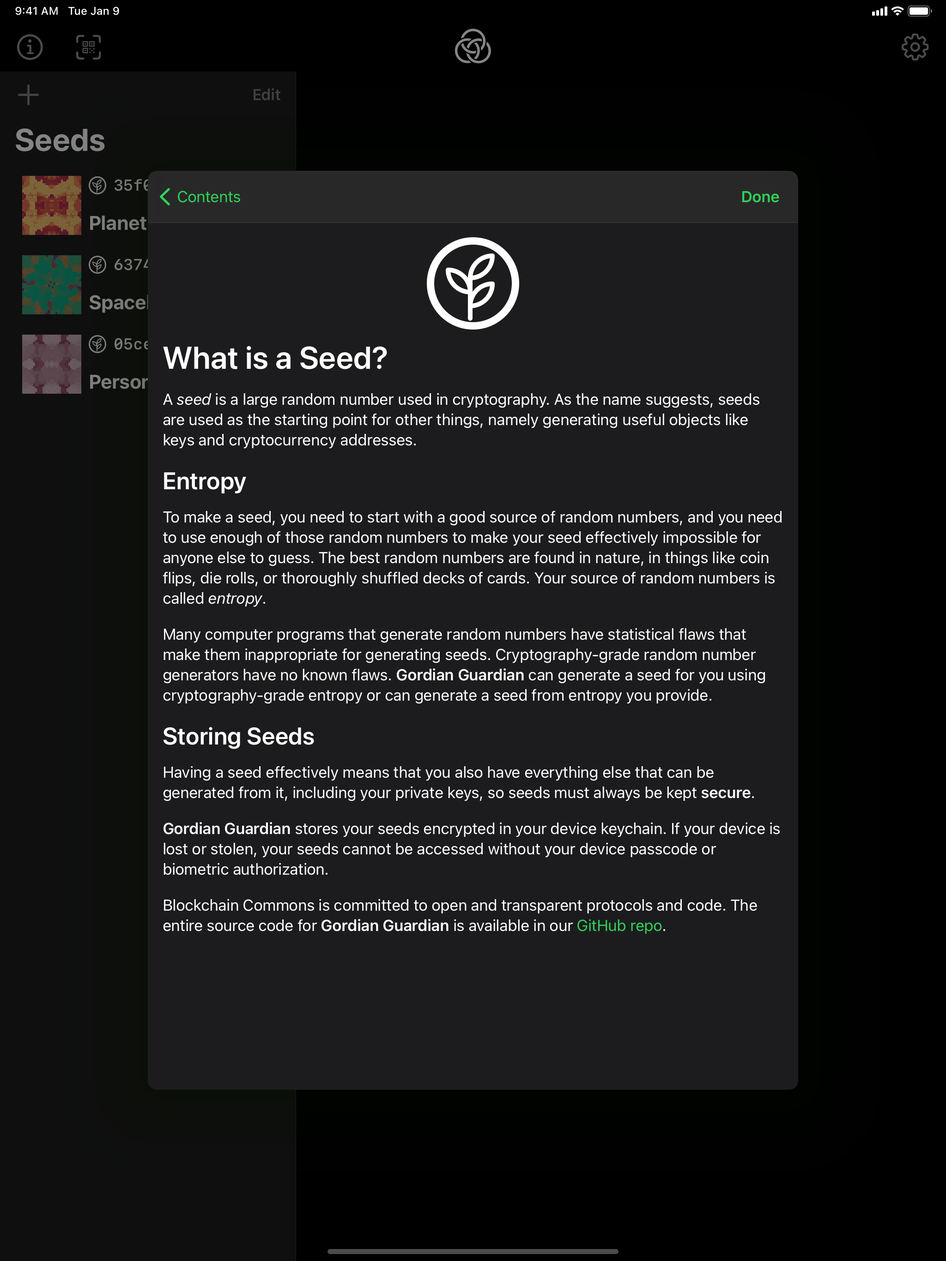
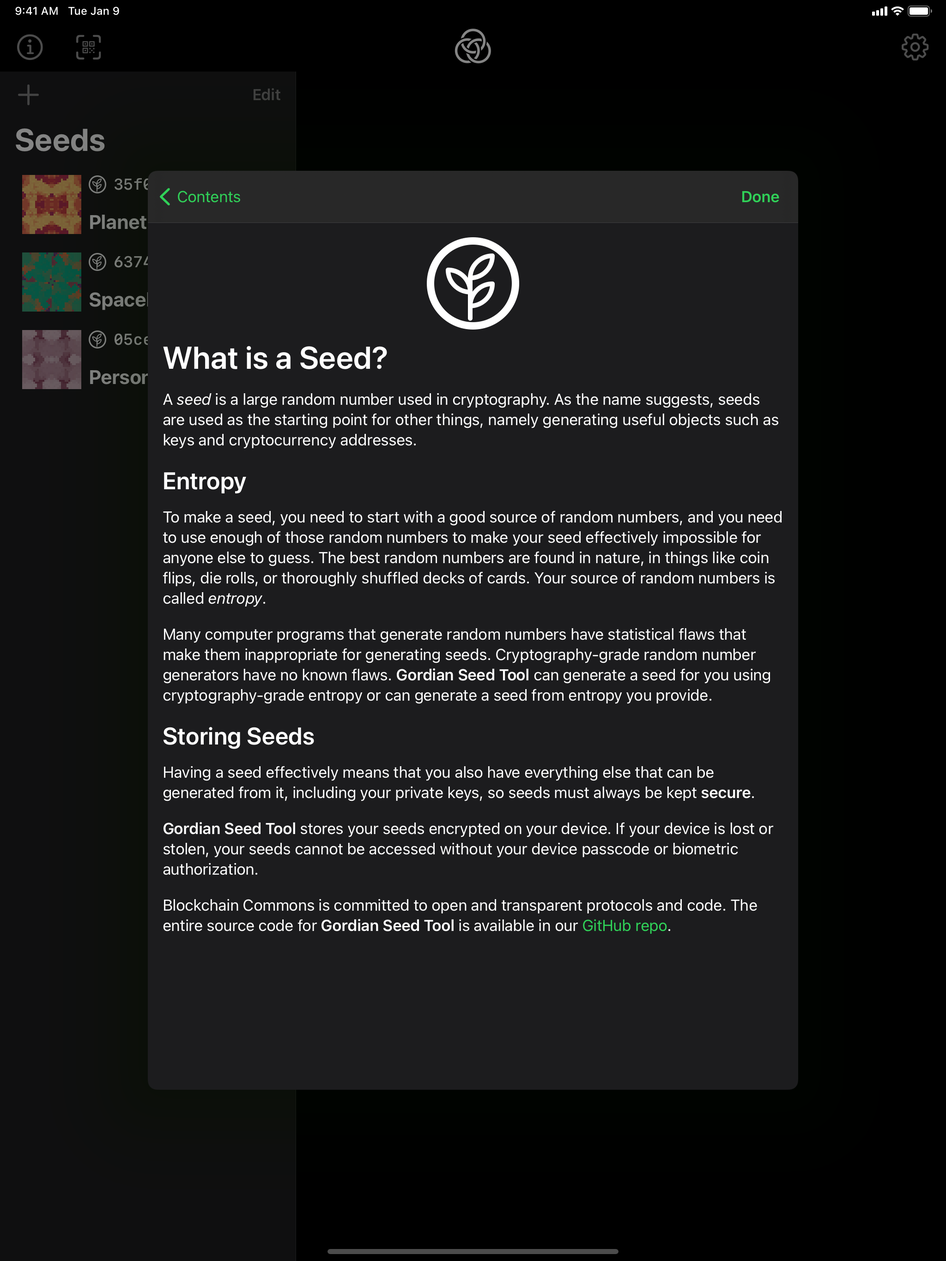
Update screenshots.

diff --git a/fastlane/Preview.html b/fastlane/Preview.html
@@ -92,7 +92,7 @@
 
           .app-changelog-list {
               list-style-type: square;
-              
+
               font-weight: 300;
           }
 
@@ -138,10 +138,10 @@
           }
         </style>
     </head>
-    
+
     <body>
       <div class="app-icons">
-        
+
         
         
       </div>
@@ -155,7 +155,7 @@
 
         
           <div class="app-subtitle">
-            Subtitle:  Crypto Seed Vault
+            Subtitle:  Cryptographic Seed Vault
 
           </div>
         
@@ -182,29 +182,47 @@
             
           
         </div>
-        
+
         
           <div class="app-keyword">
               <div class="cat-headline">Keywords</div>
               <ul class="app-keyword-list">
                 
+                  <li>cryptography</li>
+                
+                  <li>cryptocurrency</li>
+                
+                  <li>bitcoin</li>
+                
+                  <li>private keys</li>
+                
+                  <li>seeds</li>
+                
+                  <li>blockchain</li>
+                
+                  <li>qr</li>
+                
+                  <li>wallet</li>
+                
+                  <li>security</li>
+                
               </ul>
           </div>
         
-        
+
         
           <div class="app-description">
                <div class="cat-headline">Description</div>
                <div class="app-description-text">
-                  “Seeds” are long strings of truly random numbers used in cryptography. As the name suggests, seeds are used as the starting point for other things like generating useful objects like keys and addresses used with cryptocurrencies. To be secure, seeds need to be generated and stored safely. Gordian Seed Tool lets you generate seeds and store them securely on your device. You can even use an entirely offline device (no Internet access) to store your seeds, and exchange just necessary information with online devices running compatible wallet or signing software using QR codes.<br /><br />Gordian Seed Tool lets you derive and share multi-signature signing and verification keys from your seeds, and lets you back up your seeds in sophisticated ways, including printed pages and Sharded Secret Key Reconstruction (SSKR), which lets you split your seed into pieces and send them to trusted parties, who can send them back to you in an emergency, allowing you to recover your seed.<br /><br />Gordian Seed Tool is open source software from Blockchain Commons, a not-for-profit public good organization. Find our repository on GitHub and check out the code for yourself!<br />
+                  Gordian Seed Tool protects your cryptographic seeds while also making them available for easy use. Using Seed Tool, you can generate seeds and store them securely on your device. You can then derive and share multi-signature signing and verification keys from those seeds. Sophisticated backup procedures include printed pages and Sharded Secret Key Reconstruction (SSKR) — which lets you split your seed into pieces and send them to trusted parties, who can send them back to you in an emergency for seed recovery. You can even use an entirely offline device (no internet access) to store your seeds and use QR codes to exchange necessary information with online devices running compatible wallet or signing software.<br /><br />The "seeds" generated and protected by Gordian Seed Tool are long strings of truly random numbers used in cryptography. As the name suggests, seeds are the starting point for other things such as cryptocurrency keys and addresses. To be secure, seeds need to be created and saved safely.<br /><br />NOTE: Gordian Seed Tool is not a cryptocurrency wallet. It does not store or transmit value in any cryptocurrency, but it can be used in conjunction with such tools.<br /><br />Gordian Seed Tool is open-source software from Blockchain Commons, a not-for-profit public-good organization. Find our repository on GitHub and check out the code for yourself!<br />
                </div>
           </div>
         
-        
+
         
           <div class="app-changelog">
               <div class="cat-headline">Changelog</div>
-              • Fixed a bug where the transaction ID in a returned `crypto-response` did not match the transaction ID in the received `crypto-request`.<br />
+              • You can now navigate from various places of the app to specific pages of the built-in user's guide via the ⓘ buttons.<br />• The Settings panel now contains a Show Developer Functions switch that shows the "Show Request/Response for this Seed/Key" options at appropriate places in the app.<br />• All functions that copied data to the clipboard, including long presses on QR codes, life hashes, and other static fields now invoke the system share sheet instead.<br />• In the Seed Detail view, the "Data" section has been renamed "Encrypted Data", and the "Decrypt" button is now called "Authenticate". It now reveals several buttons: Backup, Share, and Derive Key, which are menus that lead to futher functionality. There are also links to the documentation.<br />• The SSKR export view now includes a "preset selector" that lets users choose among comon sharding configurations. Users can still choose any configuration they like and this will be reflected in the preset selector as "custom".<br />• In the Settings panel, the default network is now "mainnet". This will only apply to users who have not manually changed this setting.<br />• In the Derive Key view, both the private and public keys are now simulatenously derived, and appear in separate sections at the bottom of the view.<br />• Other minor bug fixes and improvements.<br />
           </div>
         
 
@@ -214,7 +232,7 @@
               Securely generates, stores, imports, and exports cryptographic seeds (long random numbers) used in a variety of cryptographic and cryptocurrency applications.<br />
           </div>
         
-        
+
         <div class="app-screenshots">
           <div class="cat-headline">Screenshots</div>
 
@@ -229,19 +247,19 @@
               <div class="app-screenshot-row">
 
               
-                <a href="./fastlane/screenshots/en-US/iPhone%208%20Plus-0seedList.png" target="_blank"><img class="app-screenshot" src="screenshots/en-US/iPhone%208%20Plus-0seedList.png" title="Screenshot #0 for en-US"></a>
+                <a href="screenshots/en-US/iPhone%208%20Plus-0seedList.png" target="_blank"><img class="app-screenshot" src="screenshots/en-US/iPhone%208%20Plus-0seedList.png" title="Screenshot #0 for en-US"></a>
               
-                <a href="./fastlane/screenshots/en-US/iPhone%208%20Plus-1docs.png" target="_blank"><img class="app-screenshot" src="screenshots/en-US/iPhone%208%20Plus-1docs.png" title="Screenshot #1 for en-US"></a>
+                <a href="screenshots/en-US/iPhone%208%20Plus-1docs.png" target="_blank"><img class="app-screenshot" src="screenshots/en-US/iPhone%208%20Plus-1docs.png" title="Screenshot #1 for en-US"></a>
               
-                <a href="./fastlane/screenshots/en-US/iPhone%208%20Plus-2addSeed.png" target="_blank"><img class="app-screenshot" src="screenshots/en-US/iPhone%208%20Plus-2addSeed.png" title="Screenshot #2 for en-US"></a>
+                <a href="screenshots/en-US/iPhone%208%20Plus-2addSeed.png" target="_blank"><img class="app-screenshot" src="screenshots/en-US/iPhone%208%20Plus-2addSeed.png" title="Screenshot #2 for en-US"></a>
               
-                <a href="./fastlane/screenshots/en-US/iPhone%208%20Plus-3playingCards.png" target="_blank"><img class="app-screenshot" src="screenshots/en-US/iPhone%208%20Plus-3playingCards.png" title="Screenshot #3 for en-US"></a>
+                <a href="screenshots/en-US/iPhone%208%20Plus-3playingCards.png" target="_blank"><img class="app-screenshot" src="screenshots/en-US/iPhone%208%20Plus-3playingCards.png" title="Screenshot #3 for en-US"></a>
               
-                <a href="./fastlane/screenshots/en-US/iPhone%208%20Plus-4seedDetail.png" target="_blank"><img class="app-screenshot" src="screenshots/en-US/iPhone%208%20Plus-4seedDetail.png" title="Screenshot #4 for en-US"></a>
+                <a href="screenshots/en-US/iPhone%208%20Plus-4seedDetail.png" target="_blank"><img class="app-screenshot" src="screenshots/en-US/iPhone%208%20Plus-4seedDetail.png" title="Screenshot #4 for en-US"></a>
               
-                <a href="./fastlane/screenshots/en-US/iPhone%208%20Plus-5deriveKey.png" target="_blank"><img class="app-screenshot" src="screenshots/en-US/iPhone%208%20Plus-5deriveKey.png" title="Screenshot #5 for en-US"></a>
+                <a href="screenshots/en-US/iPhone%208%20Plus-5deriveKey.png" target="_blank"><img class="app-screenshot" src="screenshots/en-US/iPhone%208%20Plus-5deriveKey.png" title="Screenshot #5 for en-US"></a>
               
-                <a href="./fastlane/screenshots/en-US/iPhone%208%20Plus-6exportKey.png" target="_blank"><img class="app-screenshot" src="screenshots/en-US/iPhone%208%20Plus-6exportKey.png" title="Screenshot #6 for en-US"></a>
+                <a href="screenshots/en-US/iPhone%208%20Plus-6exportKey.png" target="_blank"><img class="app-screenshot" src="screenshots/en-US/iPhone%208%20Plus-6exportKey.png" title="Screenshot #6 for en-US"></a>
               
               </div>
             
@@ -251,19 +269,19 @@
               <div class="app-screenshot-row">
 
               
-                <a href="./fastlane/screenshots/en-US/iPhone%2011%20Pro%20Max-0seedList.png" target="_blank"><img class="app-screenshot" src="screenshots/en-US/iPhone%2011%20Pro%20Max-0seedList.png" title="Screenshot #0 for en-US"></a>
+                <a href="screenshots/en-US/iPhone%2011%20Pro%20Max-0seedList.png" target="_blank"><img class="app-screenshot" src="screenshots/en-US/iPhone%2011%20Pro%20Max-0seedList.png" title="Screenshot #0 for en-US"></a>
               
-                <a href="./fastlane/screenshots/en-US/iPhone%2011%20Pro%20Max-1docs.png" target="_blank"><img class="app-screenshot" src="screenshots/en-US/iPhone%2011%20Pro%20Max-1docs.png" title="Screenshot #1 for en-US"></a>
+                <a href="screenshots/en-US/iPhone%2011%20Pro%20Max-1docs.png" target="_blank"><img class="app-screenshot" src="screenshots/en-US/iPhone%2011%20Pro%20Max-1docs.png" title="Screenshot #1 for en-US"></a>
               
-                <a href="./fastlane/screenshots/en-US/iPhone%2011%20Pro%20Max-2addSeed.png" target="_blank"><img class="app-screenshot" src="screenshots/en-US/iPhone%2011%20Pro%20Max-2addSeed.png" title="Screenshot #2 for en-US"></a>
+                <a href="screenshots/en-US/iPhone%2011%20Pro%20Max-2addSeed.png" target="_blank"><img class="app-screenshot" src="screenshots/en-US/iPhone%2011%20Pro%20Max-2addSeed.png" title="Screenshot #2 for en-US"></a>
               
-                <a href="./fastlane/screenshots/en-US/iPhone%2011%20Pro%20Max-3playingCards.png" target="_blank"><img class="app-screenshot" src="screenshots/en-US/iPhone%2011%20Pro%20Max-3playingCards.png" title="Screenshot #3 for en-US"></a>
+                <a href="screenshots/en-US/iPhone%2011%20Pro%20Max-3playingCards.png" target="_blank"><img class="app-screenshot" src="screenshots/en-US/iPhone%2011%20Pro%20Max-3playingCards.png" title="Screenshot #3 for en-US"></a>
               
-                <a href="./fastlane/screenshots/en-US/iPhone%2011%20Pro%20Max-4seedDetail.png" target="_blank"><img class="app-screenshot" src="screenshots/en-US/iPhone%2011%20Pro%20Max-4seedDetail.png" title="Screenshot #4 for en-US"></a>
+                <a href="screenshots/en-US/iPhone%2011%20Pro%20Max-4seedDetail.png" target="_blank"><img class="app-screenshot" src="screenshots/en-US/iPhone%2011%20Pro%20Max-4seedDetail.png" title="Screenshot #4 for en-US"></a>
               
-                <a href="./fastlane/screenshots/en-US/iPhone%2011%20Pro%20Max-5deriveKey.png" target="_blank"><img class="app-screenshot" src="screenshots/en-US/iPhone%2011%20Pro%20Max-5deriveKey.png" title="Screenshot #5 for en-US"></a>
+                <a href="screenshots/en-US/iPhone%2011%20Pro%20Max-5deriveKey.png" target="_blank"><img class="app-screenshot" src="screenshots/en-US/iPhone%2011%20Pro%20Max-5deriveKey.png" title="Screenshot #5 for en-US"></a>
               
-                <a href="./fastlane/screenshots/en-US/iPhone%2011%20Pro%20Max-6exportKey.png" target="_blank"><img class="app-screenshot" src="screenshots/en-US/iPhone%2011%20Pro%20Max-6exportKey.png" title="Screenshot #6 for en-US"></a>
+                <a href="screenshots/en-US/iPhone%2011%20Pro%20Max-6exportKey.png" target="_blank"><img class="app-screenshot" src="screenshots/en-US/iPhone%2011%20Pro%20Max-6exportKey.png" title="Screenshot #6 for en-US"></a>
               
               </div>
             
@@ -273,19 +291,19 @@
               <div class="app-screenshot-row">
 
               
-                <a href="./fastlane/screenshots/en-US/iPad%20Pro%20(12.9-inch)%20(2nd%20generation)-0seedList.png" target="_blank"><img class="app-screenshot" src="screenshots/en-US/iPad%20Pro%20(12.9-inch)%20(2nd%20generation)-0seedList.png" title="Screenshot #0 for en-US"></a>
+                <a href="screenshots/en-US/iPad%20Pro%20(12.9-inch)%20(2nd%20generation)-0seedList.png" target="_blank"><img class="app-screenshot" src="screenshots/en-US/iPad%20Pro%20(12.9-inch)%20(2nd%20generation)-0seedList.png" title="Screenshot #0 for en-US"></a>
               
-                <a href="./fastlane/screenshots/en-US/iPad%20Pro%20(12.9-inch)%20(2nd%20generation)-1docs.png" target="_blank"><img class="app-screenshot" src="screenshots/en-US/iPad%20Pro%20(12.9-inch)%20(2nd%20generation)-1docs.png" title="Screenshot #1 for en-US"></a>
+                <a href="screenshots/en-US/iPad%20Pro%20(12.9-inch)%20(2nd%20generation)-1docs.png" target="_blank"><img class="app-screenshot" src="screenshots/en-US/iPad%20Pro%20(12.9-inch)%20(2nd%20generation)-1docs.png" title="Screenshot #1 for en-US"></a>
               
-                <a href="./fastlane/screenshots/en-US/iPad%20Pro%20(12.9-inch)%20(2nd%20generation)-2addSeed.png" target="_blank"><img class="app-screenshot" src="screenshots/en-US/iPad%20Pro%20(12.9-inch)%20(2nd%20generation)-2addSeed.png" title="Screenshot #2 for en-US"></a>
+                <a href="screenshots/en-US/iPad%20Pro%20(12.9-inch)%20(2nd%20generation)-2addSeed.png" target="_blank"><img class="app-screenshot" src="screenshots/en-US/iPad%20Pro%20(12.9-inch)%20(2nd%20generation)-2addSeed.png" title="Screenshot #2 for en-US"></a>
               
-                <a href="./fastlane/screenshots/en-US/iPad%20Pro%20(12.9-inch)%20(2nd%20generation)-3playingCards.png" target="_blank"><img class="app-screenshot" src="screenshots/en-US/iPad%20Pro%20(12.9-inch)%20(2nd%20generation)-3playingCards.png" title="Screenshot #3 for en-US"></a>
+                <a href="screenshots/en-US/iPad%20Pro%20(12.9-inch)%20(2nd%20generation)-3playingCards.png" target="_blank"><img class="app-screenshot" src="screenshots/en-US/iPad%20Pro%20(12.9-inch)%20(2nd%20generation)-3playingCards.png" title="Screenshot #3 for en-US"></a>
               
-                <a href="./fastlane/screenshots/en-US/iPad%20Pro%20(12.9-inch)%20(2nd%20generation)-4seedDetail.png" target="_blank"><img class="app-screenshot" src="screenshots/en-US/iPad%20Pro%20(12.9-inch)%20(2nd%20generation)-4seedDetail.png" title="Screenshot #4 for en-US"></a>
+                <a href="screenshots/en-US/iPad%20Pro%20(12.9-inch)%20(2nd%20generation)-4seedDetail.png" target="_blank"><img class="app-screenshot" src="screenshots/en-US/iPad%20Pro%20(12.9-inch)%20(2nd%20generation)-4seedDetail.png" title="Screenshot #4 for en-US"></a>
               
-                <a href="./fastlane/screenshots/en-US/iPad%20Pro%20(12.9-inch)%20(2nd%20generation)-5deriveKey.png" target="_blank"><img class="app-screenshot" src="screenshots/en-US/iPad%20Pro%20(12.9-inch)%20(2nd%20generation)-5deriveKey.png" title="Screenshot #5 for en-US"></a>
+                <a href="screenshots/en-US/iPad%20Pro%20(12.9-inch)%20(2nd%20generation)-5deriveKey.png" target="_blank"><img class="app-screenshot" src="screenshots/en-US/iPad%20Pro%20(12.9-inch)%20(2nd%20generation)-5deriveKey.png" title="Screenshot #5 for en-US"></a>
               
-                <a href="./fastlane/screenshots/en-US/iPad%20Pro%20(12.9-inch)%20(2nd%20generation)-6exportKey.png" target="_blank"><img class="app-screenshot" src="screenshots/en-US/iPad%20Pro%20(12.9-inch)%20(2nd%20generation)-6exportKey.png" title="Screenshot #6 for en-US"></a>
+                <a href="screenshots/en-US/iPad%20Pro%20(12.9-inch)%20(2nd%20generation)-6exportKey.png" target="_blank"><img class="app-screenshot" src="screenshots/en-US/iPad%20Pro%20(12.9-inch)%20(2nd%20generation)-6exportKey.png" title="Screenshot #6 for en-US"></a>
               
               </div>
             
@@ -295,25 +313,25 @@
               <div class="app-screenshot-row">
 
               
-                <a href="./fastlane/screenshots/en-US/iPad%20Pro%20(12.9-inch)%20(4th%20generation)-0seedList.png" target="_blank"><img class="app-screenshot" src="screenshots/en-US/iPad%20Pro%20(12.9-inch)%20(4th%20generation)-0seedList.png" title="Screenshot #0 for en-US"></a>
+                <a href="screenshots/en-US/iPad%20Pro%20(12.9-inch)%20(4th%20generation)-0seedList.png" target="_blank"><img class="app-screenshot" src="screenshots/en-US/iPad%20Pro%20(12.9-inch)%20(4th%20generation)-0seedList.png" title="Screenshot #0 for en-US"></a>
               
-                <a href="./fastlane/screenshots/en-US/iPad%20Pro%20(12.9-inch)%20(4th%20generation)-1docs.png" target="_blank"><img class="app-screenshot" src="screenshots/en-US/iPad%20Pro%20(12.9-inch)%20(4th%20generation)-1docs.png" title="Screenshot #1 for en-US"></a>
+                <a href="screenshots/en-US/iPad%20Pro%20(12.9-inch)%20(4th%20generation)-1docs.png" target="_blank"><img class="app-screenshot" src="screenshots/en-US/iPad%20Pro%20(12.9-inch)%20(4th%20generation)-1docs.png" title="Screenshot #1 for en-US"></a>
               
-                <a href="./fastlane/screenshots/en-US/iPad%20Pro%20(12.9-inch)%20(4th%20generation)-2addSeed.png" target="_blank"><img class="app-screenshot" src="screenshots/en-US/iPad%20Pro%20(12.9-inch)%20(4th%20generation)-2addSeed.png" title="Screenshot #2 for en-US"></a>
+                <a href="screenshots/en-US/iPad%20Pro%20(12.9-inch)%20(4th%20generation)-2addSeed.png" target="_blank"><img class="app-screenshot" src="screenshots/en-US/iPad%20Pro%20(12.9-inch)%20(4th%20generation)-2addSeed.png" title="Screenshot #2 for en-US"></a>
               
-                <a href="./fastlane/screenshots/en-US/iPad%20Pro%20(12.9-inch)%20(4th%20generation)-3playingCards.png" target="_blank"><img class="app-screenshot" src="screenshots/en-US/iPad%20Pro%20(12.9-inch)%20(4th%20generation)-3playingCards.png" title="Screenshot #3 for en-US"></a>
+                <a href="screenshots/en-US/iPad%20Pro%20(12.9-inch)%20(4th%20generation)-3playingCards.png" target="_blank"><img class="app-screenshot" src="screenshots/en-US/iPad%20Pro%20(12.9-inch)%20(4th%20generation)-3playingCards.png" title="Screenshot #3 for en-US"></a>
               
-                <a href="./fastlane/screenshots/en-US/iPad%20Pro%20(12.9-inch)%20(4th%20generation)-4seedDetail.png" target="_blank"><img class="app-screenshot" src="screenshots/en-US/iPad%20Pro%20(12.9-inch)%20(4th%20generation)-4seedDetail.png" title="Screenshot #4 for en-US"></a>
+                <a href="screenshots/en-US/iPad%20Pro%20(12.9-inch)%20(4th%20generation)-4seedDetail.png" target="_blank"><img class="app-screenshot" src="screenshots/en-US/iPad%20Pro%20(12.9-inch)%20(4th%20generation)-4seedDetail.png" title="Screenshot #4 for en-US"></a>
               
-                <a href="./fastlane/screenshots/en-US/iPad%20Pro%20(12.9-inch)%20(4th%20generation)-5deriveKey.png" target="_blank"><img class="app-screenshot" src="screenshots/en-US/iPad%20Pro%20(12.9-inch)%20(4th%20generation)-5deriveKey.png" title="Screenshot #5 for en-US"></a>
+                <a href="screenshots/en-US/iPad%20Pro%20(12.9-inch)%20(4th%20generation)-5deriveKey.png" target="_blank"><img class="app-screenshot" src="screenshots/en-US/iPad%20Pro%20(12.9-inch)%20(4th%20generation)-5deriveKey.png" title="Screenshot #5 for en-US"></a>
               
-                <a href="./fastlane/screenshots/en-US/iPad%20Pro%20(12.9-inch)%20(4th%20generation)-6exportKey.png" target="_blank"><img class="app-screenshot" src="screenshots/en-US/iPad%20Pro%20(12.9-inch)%20(4th%20generation)-6exportKey.png" title="Screenshot #6 for en-US"></a>
+                <a href="screenshots/en-US/iPad%20Pro%20(12.9-inch)%20(4th%20generation)-6exportKey.png" target="_blank"><img class="app-screenshot" src="screenshots/en-US/iPad%20Pro%20(12.9-inch)%20(4th%20generation)-6exportKey.png" title="Screenshot #6 for en-US"></a>
               
               </div>
             
           
           </div>
-        
+
         <hr />
       
       
@@ -369,7 +387,7 @@
                   Notes
                 </dt>
                 <dd class="app-minor-information-text">
-                  <br />
+                  Note: This is not a cryptocurrency wallet. It neither stores nor transmits value in any cryptocurrency.<br /><br />To test the app's scanning capabilities, you can find a PDF containing a "ur:crypto-seed" QR code attached, or at this URL: https://github.com/BlockchainCommons/GordianSeedTool-iOS/blob/master/Testing/DPAL%20Seed.pdf<br />
                 </dd>
             
           </dl>

diff --git a/SeedToolUITests/SeedToolUITests.swift b/SeedToolUITests/SeedToolUITests.swift
@@ -28,7 +28,7 @@ class SeedToolUITests: XCTestCase {
     //
     // This test will FAIL if the iOS simulator has "Connect Hardware Keyboard" on.
     //
-
+    
     func testScreenShots() throws {
         launch()
         try acceptLicense()
@@ -48,18 +48,28 @@ class SeedToolUITests: XCTestCase {
                 scenicView(.playingCards)
             }
         }
-
+        
         try visitSeed(name: "Spacely Sprockets") {
-            try tap("Decrypt")
+            tapButtonCoord("Authenticate")
             scenicView(.seedDetail)
 
             try visitDeriveKey {
                 scenicView(.deriveKey)
-                try visitExportKey {
+                try visitShareKey {
                     scenicView(.exportKey)
                 }
             }
         }
+    }
+    
+    func tapButtonCoord(_ name: String) {
+        let button = app.buttons[name]
+        let c1 = button.coordinate(withNormalizedOffset: CGVector(dx: 0, dy: 0))
+        let c2 = c1.withOffset(CGVector(dx: 10, dy: 10))
+        sleep(1)
+        c2.tap()
+        // app.buttons["Authenticate"].tap()
+        // try tap("Authenticate")
     }
 
     func visitDocs(action: () throws -> Void) throws {
@@ -84,16 +94,14 @@ class SeedToolUITests: XCTestCase {
     }
 
     func visitDeriveKey(action: () throws -> Void) throws {
-        try tap("Share Seed Menu")
-        //scenicView(.shareSeedMenu)
-        try tap("Derive and Export Key…")
+        try tap("Derive Key Menu")
+        try tap("Other Key Derivations")
         try action()
         tapDone()
     }
 
-    func visitExportKey(action: () throws -> Void) throws {
-        try tap("Share Key Menu")
-        try tap("Export as ur:crypto-hdkey…")
+    func visitShareKey(action: () throws -> Void) throws {
+        try tap("Share Private")
         try action()
         tapDone()
     }

diff --git a/SeedToolUITests/SnapshotHelper.swift b/SeedToolUITests/SnapshotHelper.swift
@@ -193,16 +193,20 @@ open class Snapshot: NSObject {
     }
 
     class func fixLandscapeOrientation(image: UIImage) -> UIImage {
-        if #available(iOS 10.0, *) {
-            let format = UIGraphicsImageRendererFormat()
-            format.scale = image.scale
-            let renderer = UIGraphicsImageRenderer(size: image.size, format: format)
-            return renderer.image { context in
-                image.draw(in: CGRect(x: 0, y: 0, width: image.size.width, height: image.size.height))
-            }
-        } else {
+        #if os(watchOS)
             return image
-        }
+        #else
+            if #available(iOS 10.0, *) {
+                let format = UIGraphicsImageRendererFormat()
+                format.scale = image.scale
+                let renderer = UIGraphicsImageRenderer(size: image.size, format: format)
+                return renderer.image { context in
+                    image.draw(in: CGRect(x: 0, y: 0, width: image.size.width, height: image.size.height))
+                }
+            } else {
+                return image
+            }
+        #endif
     }
 
     class func waitForLoadingIndicatorToDisappear(within timeout: TimeInterval) {
@@ -302,4 +306,4 @@ private extension CGFloat {
 
 // Please don't remove the lines below
 // They are used to detect outdated configuration files
-// SnapshotHelperVersion [1.24]
+// SnapshotHelperVersion [1.27]

diff --git a/SeedTool/Seeds/SeedList.swift b/SeedTool/Seeds/SeedList.swift
@@ -15,7 +15,7 @@ struct SeedList: View {
     @State var newSeed: Seed?
     @State var isSeedDetailValid: Bool = true
     @State var selectionID: UUID? = nil
-    @State var editMode: EditMode = .inactive
+//    @State var editMode: EditMode = .inactive
     @StateObject var undoStack = UndoStack()
 
     var body: some View {
@@ -84,17 +84,17 @@ struct SeedList: View {
         .onChange(of: isNameSeedPresented) { value in
             //print("isNameSeedPresented: \(isNameSeedPresented)")
         }
-        .onChange(of: editMode) { mode in
-            //print("Edit mode: \(mode)")
-            if mode == .active {
-                selectionID = nil
-            }
-        }
+//        .onChange(of: editMode) { mode in
+//            //print("Edit mode: \(mode)")
+//            if mode == .active {
+//                selectionID = nil
+//            }
+//        }
         .disabled(!isSeedDetailValid)
         .onDisappear {
             undoStack.invalidate()
         }
-        .environment(\.editMode, $editMode)
+//        .environment(\.editMode, $editMode)
     }
     
     var leadingNavigationBarItems: some View {

diff --git a/SeedTool/Seeds/SeedDetail.swift b/SeedTool/Seeds/SeedDetail.swift
@@ -311,7 +311,11 @@ struct SeedDetail: View {
             } label: {
                 ExportDataButton("Share", icon: Image(systemName: "square.and.arrow.up"), isSensitive: true) {}
             }
-            
+            .menuStyle(BorderlessButtonMenuStyle())
+            .disabled(!isValid)
+            .accessibility(label: Text("Share Menu"))
+            .accessibilityRemoveTraits(.isImage)
+
             UserGuideButton(openToChapter: .whatAreBytewords, showShortTitle: true)
             UserGuideButton(openToChapter: .whatIsBIP39, showShortTitle: true)
         }
@@ -328,6 +332,10 @@ struct SeedDetail: View {
         } label: {
             ExportDataButton("Derive Key", icon: Image("key.fill.circle"), isSensitive: true) {}
         }
+        .menuStyle(BorderlessButtonMenuStyle())
+        .disabled(!isValid)
+        .accessibility(label: Text("Derive Key Menu"))
+        .accessibilityRemoveTraits(.isImage)
     }
 
     var backupMenu: some View {

diff --git a/SeedTool/Keys/KeyExport.swift b/SeedTool/Keys/KeyExport.swift
@@ -221,7 +221,7 @@ struct KeyExport: View {
                 Image(systemName: "square.and.arrow.up.on.square")
                     .accentColor(key!.keyType.isPrivate ? .yellowLightSafe : .green)
                     .padding(10)
-                    .accessibility(label: Text("Share"))
+                    .accessibility(label: Text("Share \(key!.keyType.isPrivate ? "Private" : "Public")"))
                     .accessibilityRemoveTraits(.isImage)
             }
             .eraseToAnyView()

diff --git a/fastlane/README.md b/fastlane/README.md
@@ -20,7 +20,12 @@ or alternatively using `brew install fastlane`
 ```
 fastlane ios screenshots
 ```
-Generate new localized screenshots
+
+### ios upload_metadata
+```
+fastlane ios upload_metadata
+```
+
 ### ios beta
 ```
 fastlane ios beta
